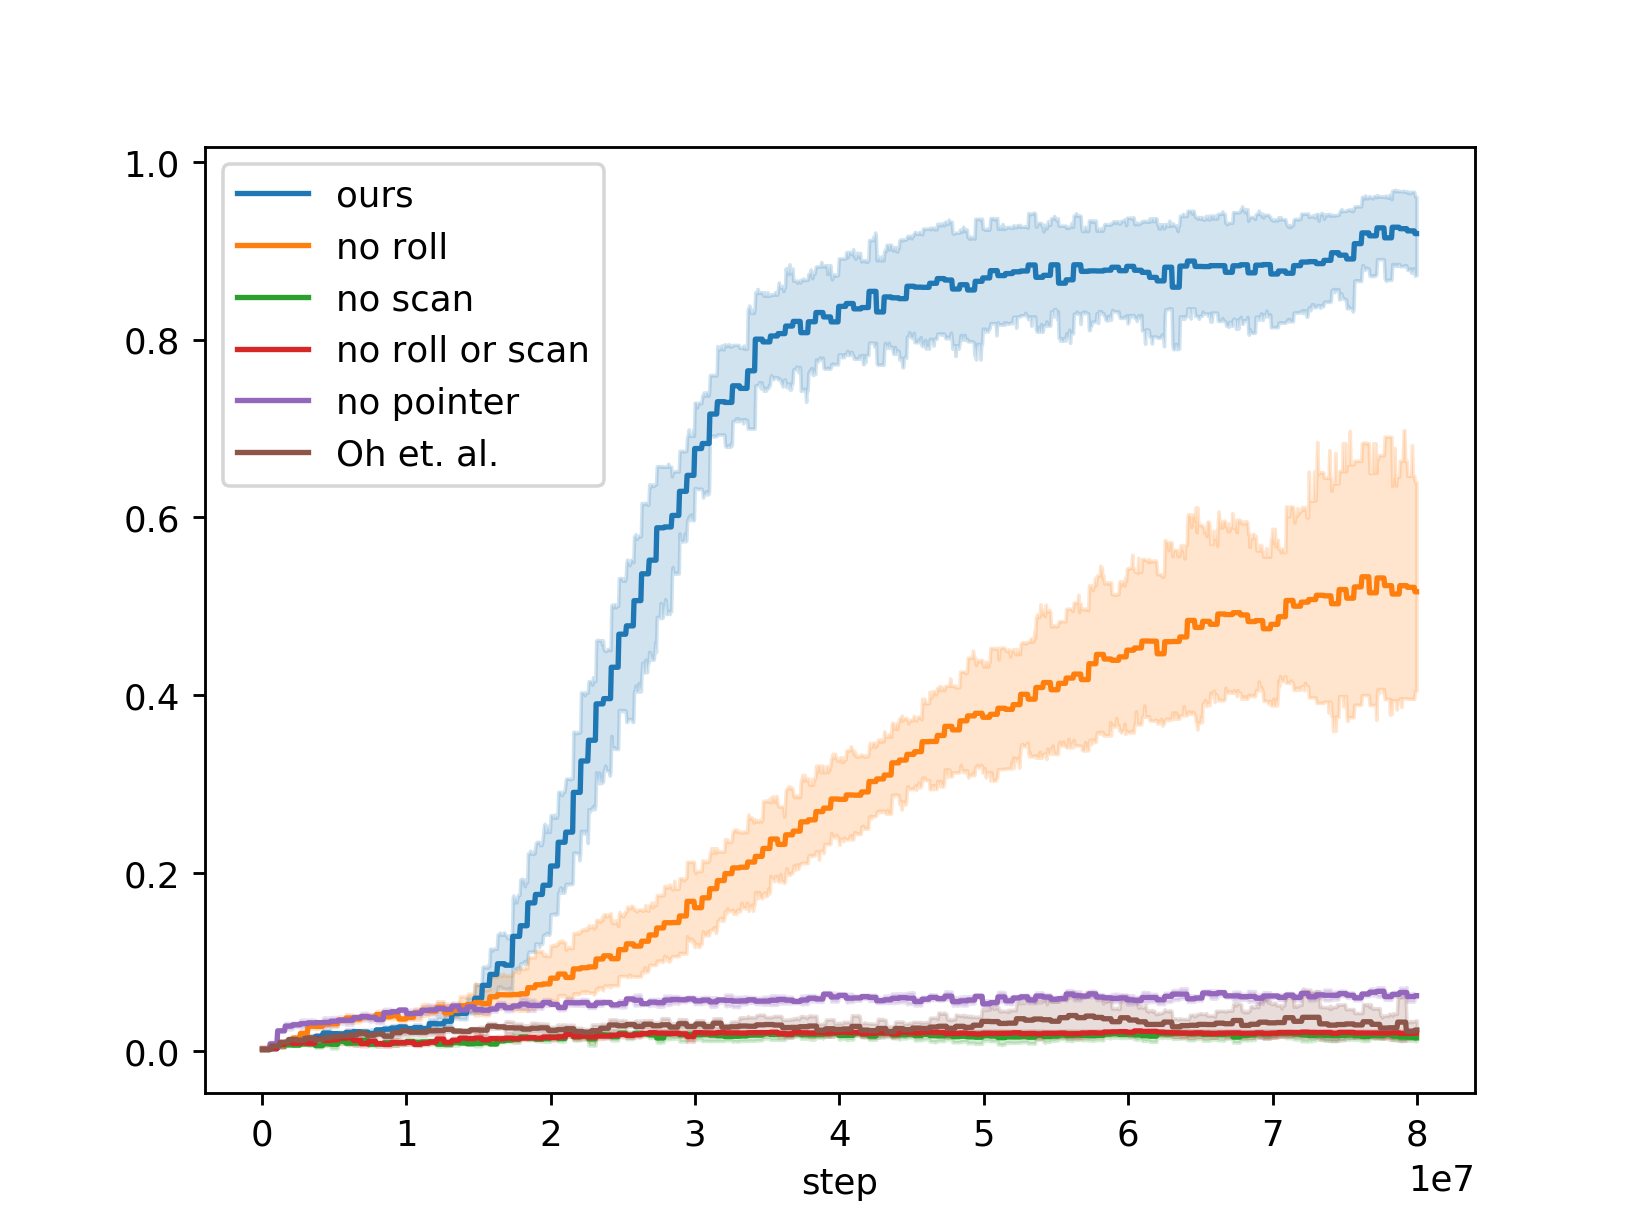
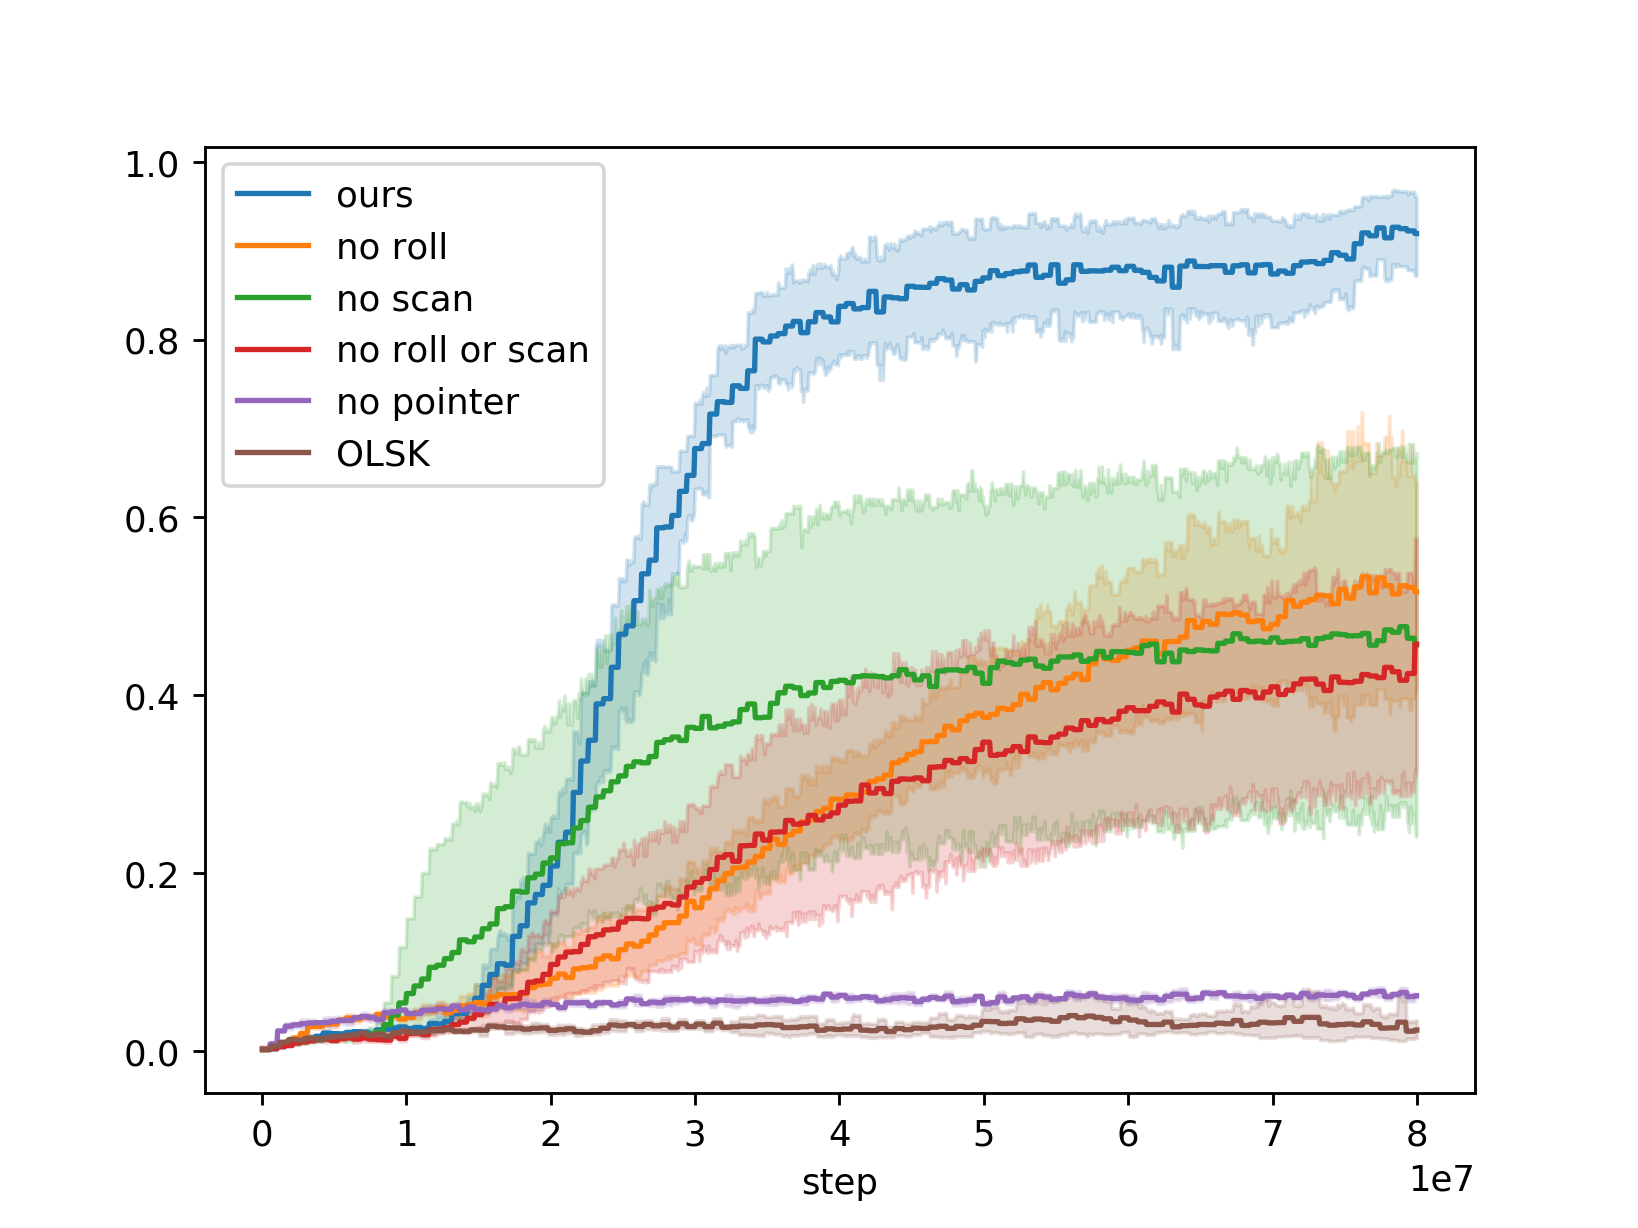
all but no roll analysis

diff --git a/example_paper.tex b/example_paper.tex
@@ -890,7 +890,7 @@ test their effectiveness. We present five baselines:
     value $V_t$. We generate $\mathbf{H}'$ by feeding the embedded instruction
     $\mathbf{M}$ through a bidirectional GRU and concatenating the last outputs
     in both directions. See figure \ref{no-pointer}. 
-  \item \textbf{Oh et. al.} This baseline reproduces the algorithm described in
+  \item \textbf{OLSK} This baseline reproduces the algorithm described in
     OLSK.
   \item The ``simple'' architecture for which figure
     \ref{simple-rewards} depicts performance on training tasks. This
@@ -972,10 +972,23 @@ architectures -- spurious correlations with past observations may form leading
 to local optima that may take a long time to escape.
 
 \subsubsection{No roll}
-%No roll: jumping to the wrong location (esp. in while loop) mis-evaluating while
-%loop
+The advantage of rolling is that the agent favors lines in the instruction that
+are closer to the current line over lines that are more distant. Without
+rolling, the bidirectional task-encoding GRU must 
+No roll: jumping to the wrong location (esp. in while loop) mis-evaluating while
+loop
 To do
 
+\subsubsection{No scan / No roll or scan}
+We observe that agents that do not use the scan function tend to learn a
+strategy that involves walking the memory pointer linearly through the
+instruction, outputting no-op actions inside failing condition blocks. While in
+principle this is a valid strategy for executing instructions of the kind
+described in this document, we observe a common tendency on the part of these agents to 
+advance the memory pointer prematurely (before performing the appropriate
+subtask) or to mis-evaluate while loops. We hypothesize that oveloading the
+GRU controller complicates the learning process, dissipating the effects of the
+learning signal, and exposing the learning process to a variety of local optima.
 
 \subsubsection{No pointer baseline}
 On expectation, this baseline succeeds on its first subtask and fails
@@ -1008,15 +1021,12 @@ that future work will explore instructions that involve greater complexity,
 including conditionals with more complex predicates, higher-dimensional
 observations, and noisy natural-language inputs.
 
-\section{To do}
-\begin{itemize}
-  \item Failure analysis
-  \item Add description of gates.
-  \item fill out appendix
-  \item Add more related works
-  \item Add diagram of edge length performance.
-  \item If time permits, add other baselines to single-step environment.
-\end{itemize}
+%\section{To do}
+%\begin{itemize}
+  %\item Add more related works
+  %\item Add diagram of edge length performance.
+  %\item If time permits, add other baselines to single-step environment.
+%\end{itemize}
 
 %\section{Electronic Submission}
 %\label{submission}
